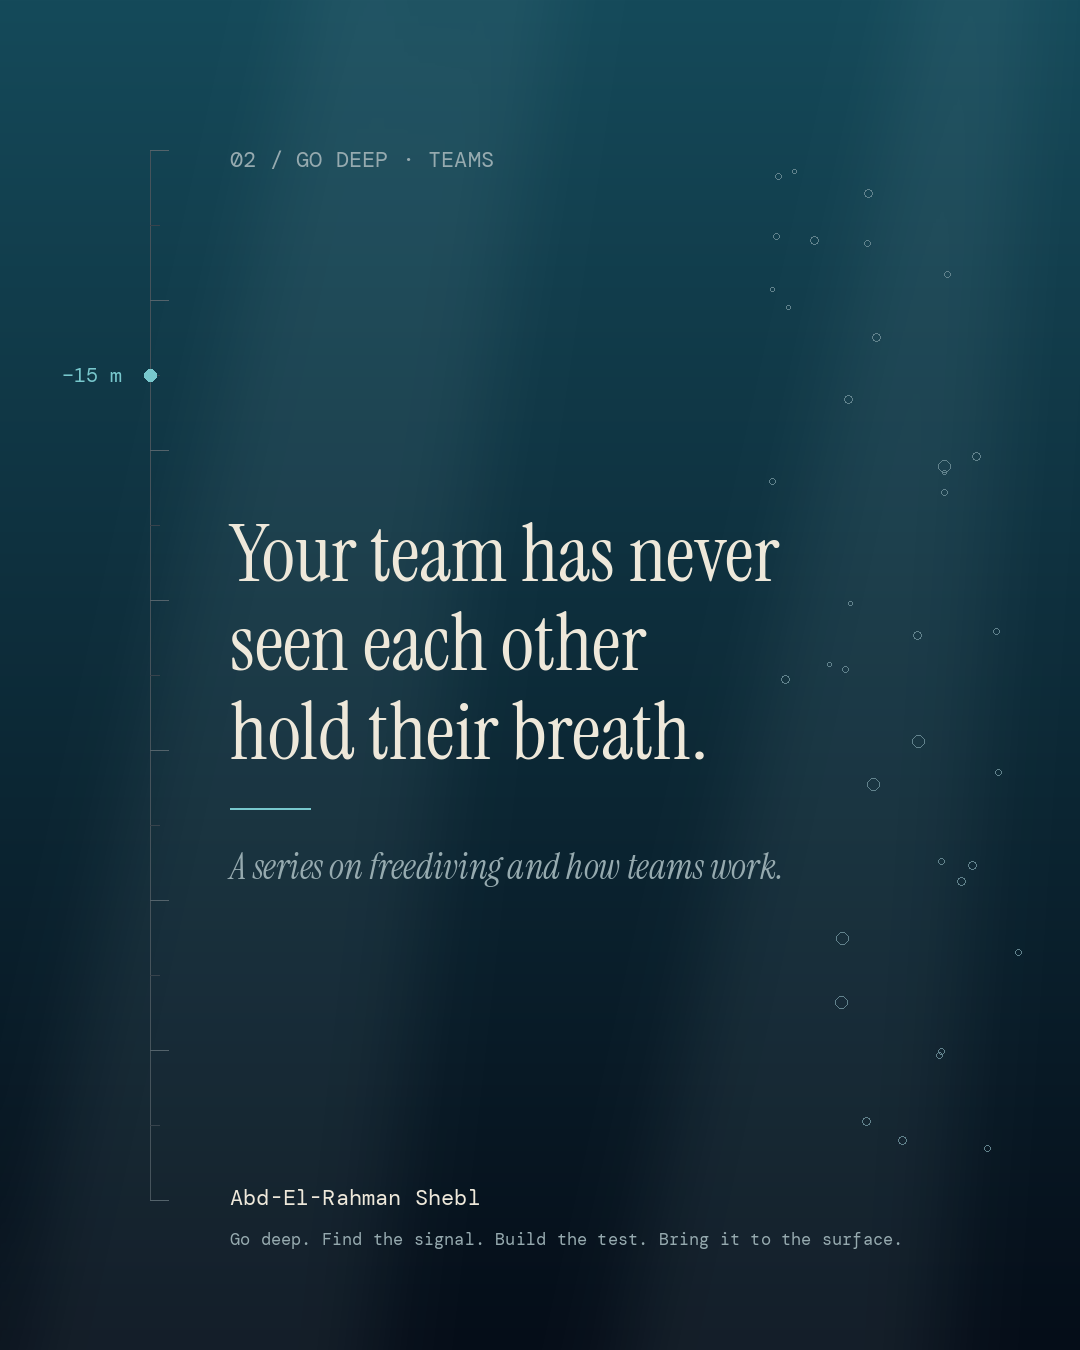
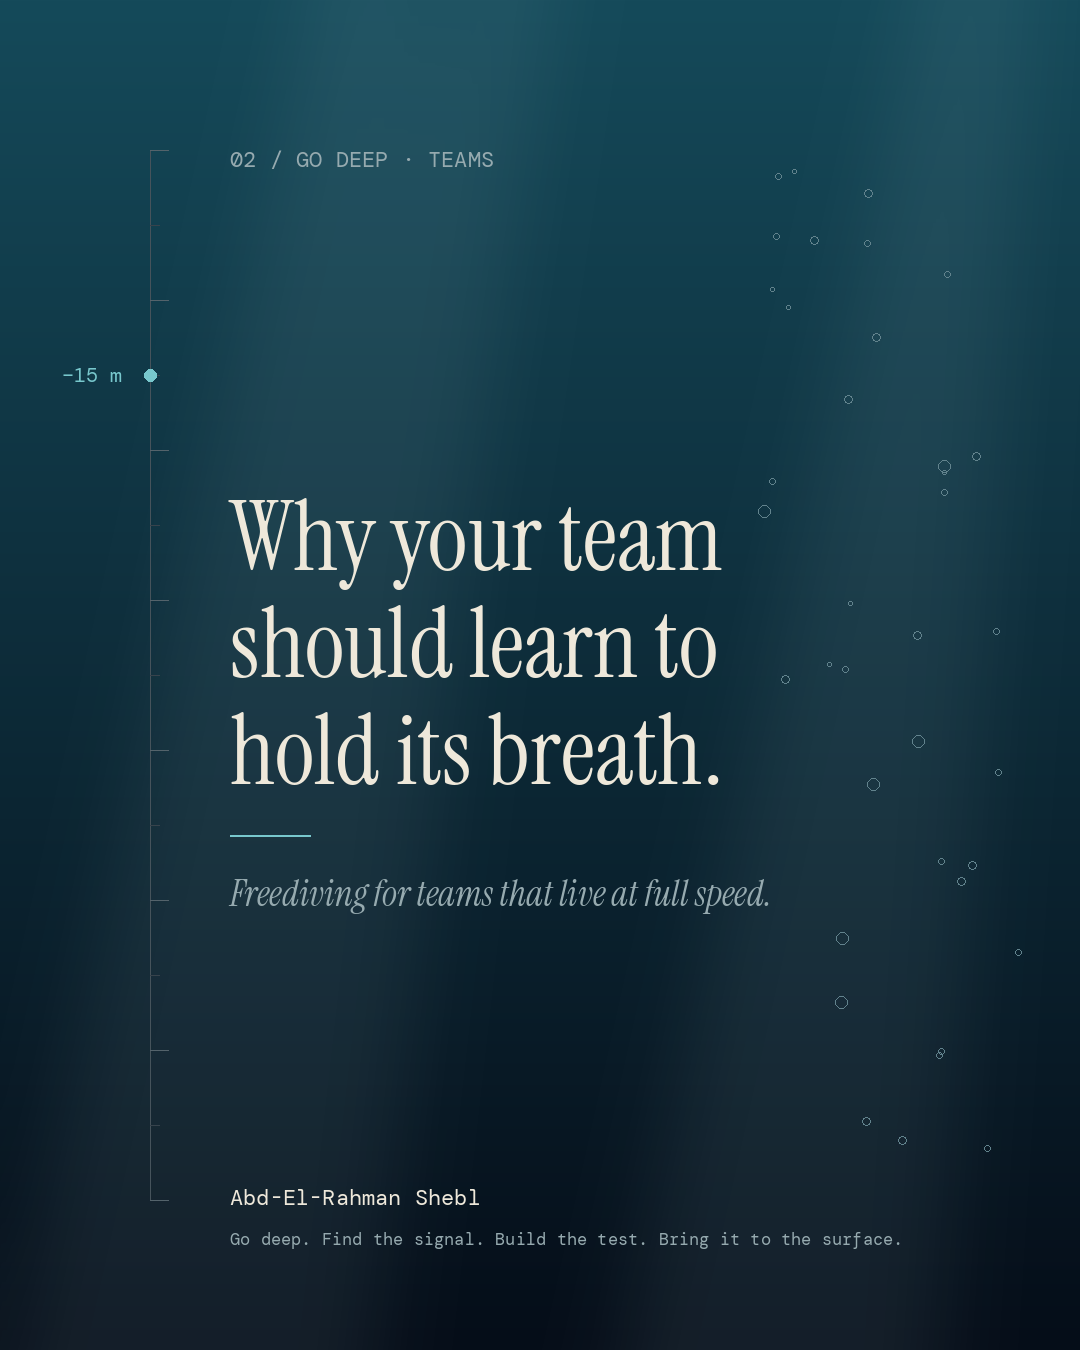
LinkedIn studio: post 02 reframed as why freediving for teams
Claude-Session: https://claude.ai/code/session_017LSm8ADBcaHVjFRtYg6f1o

Changed region(s): [[0.2139, 0.3733, 0.7333, 0.5911], [0.2139, 0.6222, 0.7333, 0.6844]]

diff --git a/linkedin-studio/posts-log.md b/linkedin-studio/posts-log.md
@@ -7,7 +7,7 @@ Clear asks: post 12 (Tue 15 Dec, team workshops) and post 16 (Tue 12 Jan, growth
 | # | Type | Date (8:30 Barcelona) | Pillar | Depth | Headline | Images | Impressions | Reactions | Comments | DMs | Notes |
 |---|------|------|--------|-------|----------|--------|---|---|---|---|-------|
 | 01 | Personal | Thu 5 Nov 2026 | GO DEEP | 5 m | We’re not one thing. | overlay | | | | | |
-| 02 | Professional | Tue 10 Nov 2026 | GO DEEP · TEAMS | 15 m | Your team has never seen each other hold their breath. | top + graphic | | | | | |
+| 02 | Professional | Tue 10 Nov 2026 | GO DEEP · TEAMS | 15 m | Why your team should learn to hold its breath. | top + graphic | | | | | |
 | 03 | Personal | Thu 12 Nov 2026 | GO DEEP | 25 m | I was busy. I wasn’t living. | overlay | | | | | |
 | 04 | Professional | Tue 17 Nov 2026 | GO DEEP · TEAMS | 35 m | One dives. One watches. Then you switch. | overlay | | | | | |
 | 05 | Personal | Thu 19 Nov 2026 | GO DEEP | 45 m | Never dive alone. Never build alone. | clean + graphic | | | | | |
